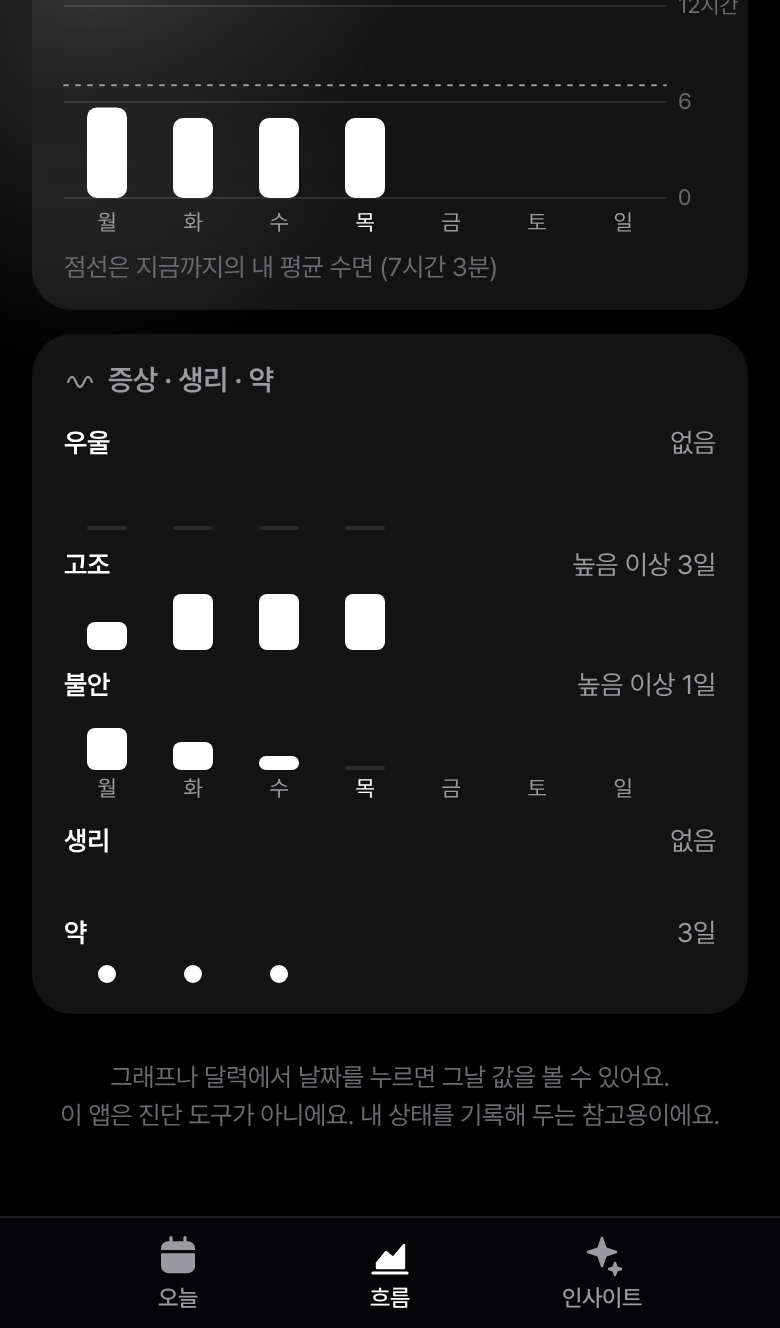
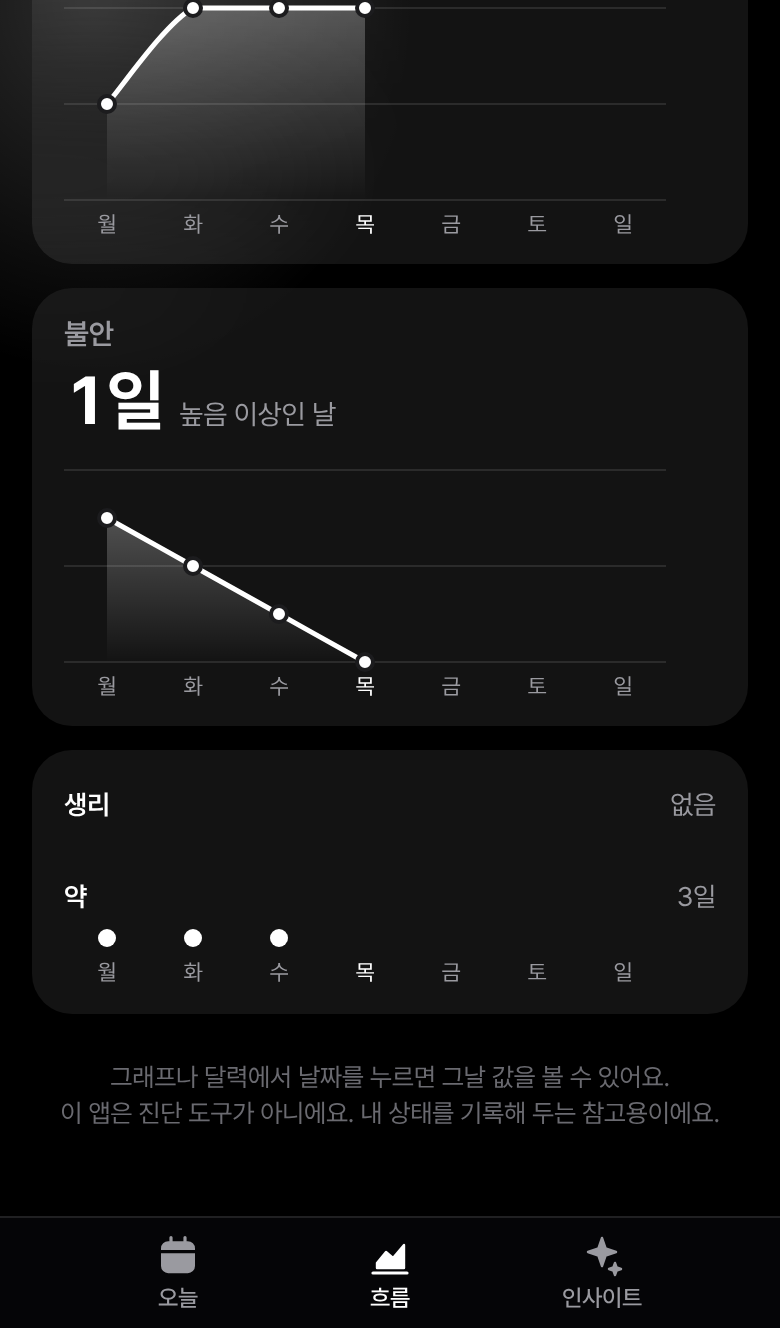
Tide: draw symptoms as line charts like mood; period and meds in a small card
Claude-Session: https://claude.ai/code/session_01Du4KAy7crrN67i73oW7iBF

diff --git a/mood/js/views/trend.js b/mood/js/views/trend.js
@@ -88,12 +88,12 @@ export function viewTrend() {
     return `<div class="mt">${icon}${name}</div><div class="mv"><b>${big}</b><span>${sub}</span></div>`;
   };
 
-  const lineCard = (key, icon, name) => {
-    const y = (v) => TOP + (1 - v / 10) * (BOT - TOP), ink = tone(key, 10) || C.ink;
+  const lineCard = (key, name, max, ticks, headHtml) => {
+    const y = (v) => TOP + (1 - v / max) * (BOT - TOP), ink = tone(key, 10) || C.ink;
     const pts = [];
     days.forEach((e, i) => { if (e && e[key] != null) pts.push([cx(i), y(e[key]), i]); });
     let out = `<defs><linearGradient id="g-${key}" x1="0" y1="0" x2="0" y2="1"><stop offset="0" stop-color="${ink}" stop-opacity=".26"/><stop offset="1" stop-color="${ink}" stop-opacity="0"/></linearGradient></defs>`;
-    out += grid([[0, '0'], [5, '5'], [10, '10']], y);
+    out += grid(ticks, y);
     if (pts.length > 1) {
       const d = smoothPath(pts, TOP, BOT);
       out += `<path d="${d}L${pts[pts.length - 1][0].toFixed(1)},${BOT}L${pts[0][0].toFixed(1)},${BOT}Z" fill="url(#g-${key})"/>
@@ -105,8 +105,10 @@ export function viewTrend() {
       const p = pts.find((q) => q[2] === pick);
       if (p) out += `<circle cx="${p[0].toFixed(1)}" cy="${p[1].toFixed(1)}" r="5.5" fill="${ink}" stroke="${C.ring}" stroke-width="2.5"/>`;
     }
-    return `<section class="card mcard">${head(key, icon, name)}${plot(out)}</section>`;
+    return `<section class="card mcard">${headHtml}${plot(out)}</section>`;
   };
+  // 기분·에너지·자신감 (0~10)
+  const scoreCard = (key, icon, name) => lineCard(key, name, 10, [[0, '0'], [5, '5'], [10, '10']], head(key, icon, name));
 
   const sleepCard = () => {
     const MAX = 12 * 60, y = (m) => TOP + (1 - Math.min(m, MAX) / MAX) * (BOT - TOP);
@@ -139,20 +141,17 @@ export function viewTrend() {
       <div class="mnote calkey"><span>${T('가라앉음')} ${scale} ${T('들뜸')}</span><span><i class="pdot"></i> ${T('생리')}</span></div></section>`;
   };
 
-  // 증상 · 생리 · 약: 항목마다 한 줄. 증상은 막대 높이가 정도, 생리는 이어진 띠, 약은 점.
-  const RH = 30, bw = isWeek ? 20 : Math.max(3, col - 3);
+  // 증상(우울·고조·불안)은 기분과 같은 선 그래프로, 0(없음)~4(매우 높음)
+  const symCard = (key, name) => {
+    const high = got.filter((e) => e[key] >= 3).length;
+    const big = pickDate ? (pickE ? LEVELS[pickE[key] || 0] : '–') : F('{0}일', high);
+    return lineCard(key, name, 4, [[0, ''], [2, ''], [4, '']], `<div class="mt">${name}</div><div class="mv"><b>${big}</b><span>${pickDate ? pickLabel : T('높음 이상인 날')}</span></div>`);
+  };
+
+  // 생리 · 약: 생리는 이어진 띠, 약은 먹은 날에 점
   const guide = (h) => (pick == null ? '' : `<line x1="${cx(pick).toFixed(1)}" x2="${cx(pick).toFixed(1)}" y1="0" y2="${h}" stroke="${C.muted}"/>`);
   const inkAt = (i) => (pick == null || pick === i ? C.ink : C.faint);
   const srow = (name, right, h, inner) => `<div class="srow"><div class="sh"><span>${name}</span><span>${right}</span></div><svg width="${W}" height="${h}">${inner}${guide(h)}</svg></div>`;
-  const symRow = (key, name) => {
-    const high = got.filter((e) => e[key] >= 3).length, max = Math.max(0, ...got.map((e) => e[key] || 0));
-    const right = pickDate ? (pickE ? LEVELS[pickE[key] || 0] : '–') : high ? F('높음 이상 {0}일', high) : max ? F('가장 높은 날 {0}', LEVELS[max]) : T('없음');
-    return srow(name, right, RH, days.map((e, i) => {
-      if (!e) return '';
-      const h = e[key] ? (e[key] / 4) * (RH - 2) : 2;   // 없음인 날은 바닥에 얇은 줄만
-      return `<rect x="${(cx(i) - bw / 2).toFixed(1)}" y="${(RH - h).toFixed(1)}" width="${bw.toFixed(1)}" height="${h.toFixed(1)}" rx="${Math.min(bw / 2, 4, h / 2).toFixed(1)}" fill="${e[key] ? inkAt(i) : C.grid}"/>`;
-    }).join(''));
-  };
   const periodRow = () => {
     let out = '', n = 0;
     for (let i = 0; i < r.n; i++) {
@@ -170,11 +169,9 @@ export function viewTrend() {
     return srow(T('약'), pickDate ? (counts[pick] ? F('{0}번', counts[pick]) : '–') : n ? F('{0}일', n) : T('없음'), 16,
       counts.map((c, i) => (c ? `<circle cx="${cx(i).toFixed(1)}" cy="8" r="${isWeek ? 4.5 : Math.max(1.5, Math.min(3, col / 2 - 1))}" fill="${inkAt(i)}"/>` : '')).join(''));
   };
-  const symptoms = `<section class="card mcard"><div class="mt">${IC.wave}${T('증상 · 생리 · 약')}</div>
-    <div class="plot strips" data-n="${r.n}" data-w="${W}">
-      ${symRow('dep', T('우울'))}${symRow('elev', T('고조'))}${symRow('anx', T('불안'))}
-      <svg width="${W}" height="18">${xLabelsAt(13)}</svg>
+  const marks = `<section class="card mcard"><div class="plot strips" data-n="${r.n}" data-w="${W}">
       ${periodRow()}${medRow()}
+      <svg width="${W}" height="18">${xLabelsAt(13)}</svg>
     </div></section>`;
 
   app.innerHTML = `
@@ -186,7 +183,9 @@ export function viewTrend() {
       <button data-act="shift" data-step="1" aria-label="${T('다음')}" ${shiftAnchor(r.start, 1) > t ? 'disabled' : ''}>›</button></div>
     ${pickDate ? `<div class="pickbar"><span>${pickLabel}${pickE ? '' : T(' · 기록 없음')}</span><button class="mini" data-act="openDay" data-date="${pickDate}">${pickE ? T('기록 열기') : T('기록하기')}</button></div>` : ''}
     ${isWeek ? '' : calendar()}
-    ${lineCard('mood', IC.face(5), T('기분'))}${lineCard('energy', IC.battery(6), T('에너지'))}${lineCard('conf', IC.star, T('자신감'))}
-    ${sleepCard()}${symptoms}
+    ${scoreCard('mood', IC.face(5), T('기분'))}${scoreCard('energy', IC.battery(6), T('에너지'))}${scoreCard('conf', IC.star, T('자신감'))}
+    ${sleepCard()}
+    ${symCard('dep', T('우울'))}${symCard('elev', T('고조'))}${symCard('anx', T('불안'))}
+    ${marks}
     <p class="foot">${T('그래프나 달력에서 날짜를 누르면 그날 값을 볼 수 있어요.')}<br>${DISCLAIMER}</p>`;
 }

diff --git a/mood/js/icons.js b/mood/js/icons.js
@@ -17,7 +17,6 @@ export const IC = {
   coffee: svg(`<path ${FILL} d="M5 9.5h11v4.5a4 4 0 0 1-4 4H9a4 4 0 0 1-4-4z"/><path d="M16 10.5h1.5a2.25 2.25 0 0 1 0 4.5H16M8.5 3.5v2.5M12.5 3.5v2.5"/>`),
   fork: svg(`<path ${FILL} d="M6.6 3.2h4.8v6.3a2.4 2.4 0 0 1-4.8 0z"/><path d="M9 11v10M17.5 11v10"/><path ${FILL} d="M17.5 3.2c-2.1 2-2.6 4.9-2.6 7.8h2.6z"/>`),
   note: svg(`<path ${FILL} d="M4 20h4L19 9l-4-4L4 16z"/>`),
-  wave: svg('<path d="M3 12c2-5 4-5 6 0s4 5 6 0 4-5 6 0"/>'),
   star: svg(`<path ${FILL} d="M12 3.5l2.6 5.4 5.9.8-4.3 4.1 1 5.8L12 16.8l-5.2 2.8 1-5.8-4.3-4.1 5.9-.8z"/>`),
   spark: svg(`<path ${FILL} d="M12 3l1.8 5.2L19 10l-5.2 1.8L12 17l-1.8-5.2L5 10l5.2-1.8zM18.5 15.5l.8 2.2 2.2.8-2.2.8-.8 2.2-.8-2.2-2.2-.8 2.2-.8z"/>`),
   today: svg(`<path ${SOLID} d="M3.5 10.6h17V17a3.6 3.6 0 0 1-3.6 3.6H7.1A3.6 3.6 0 0 1 3.5 17zM7.1 4.6h9.8a3.6 3.6 0 0 1 3.6 3.6v.8h-17v-.8a3.6 3.6 0 0 1 3.6-3.6z"/><path d="M8.5 2.8v3M15.5 2.8v3"/>`),

diff --git a/mood/sw.js b/mood/sw.js
@@ -1,7 +1,7 @@
 // 오프라인에서도 열리도록 앱 파일을 저장해 둔다.
 // 인터넷이 될 때는 항상 최신 파일을 먼저 받아오고, 안 될 때만 저장본을 쓴다.
 // 앱 파일을 바꿔서 올릴 때마다 CACHE 숫자를 하나 올린다. js/ 에 파일을 더하면 JS 목록에도 더한다.
-const CACHE = 'tide-v25';
+const CACHE = 'tide-v26';
 const JS = ['main', 'config', 'i18n', 'constants', 'store', 'dates', 'theme', 'icons', 'dom', 'state', 'meds', 'analysis', 'files', 'render',
   'views/today', 'views/trend', 'views/insight', 'views/record', 'views/settings'];
 const FILES = ['./', 'index.html', 'app.css', 'manifest.webmanifest',

diff --git a/mood/js/i18n.js b/mood/js/i18n.js
@@ -14,8 +14,7 @@ const DICT = {
   '아주 크게': 'Extra large',
   '먹었어요': 'Taken',
   '한 번 더': 'Once more',
-  '높음 이상 {0}일': '{0} days high or above',
-  '가장 높은 날 {0}': 'Highest: {0}',
+  '높음 이상인 날': 'days high or above',
   '{0}일': '{0} days',
   '{0}번': '{0} times',
   '먹은 시각': 'Time taken',
@@ -149,7 +148,6 @@ const DICT = {
   '기분 달력': 'Mood calendar',
   '가라앉음': 'Low',
   '들뜸': 'High',
-  '증상 · 생리 · 약': 'Symptoms · Period · Meds',
   '흐름': 'Trends',
   '기록 {0}일 / {1}일': '{0} of {1} days logged',
   '이전': 'Previous',

diff --git a/mood/app.css b/mood/app.css
@@ -232,7 +232,7 @@ ol.steps li { margin: 3px 0; }
 .plot { cursor: pointer; }
 .plot svg { display: block; overflow: visible; }
 .mnote { color: var(--faint); font-size: calc(11.5px * var(--fs, 1.12)); margin-top: 6px; }
-.strips { margin-top: 12px; }
+.strips { margin-top: -4px; }
 .srow { margin-top: 8px; }
 .sh { display: flex; justify-content: space-between; margin: 0 0 4px; font-size: calc(12px * var(--fs, 1.12)); color: var(--muted); }
 .sh span:first-child { color: var(--text); font-weight: 600; }
